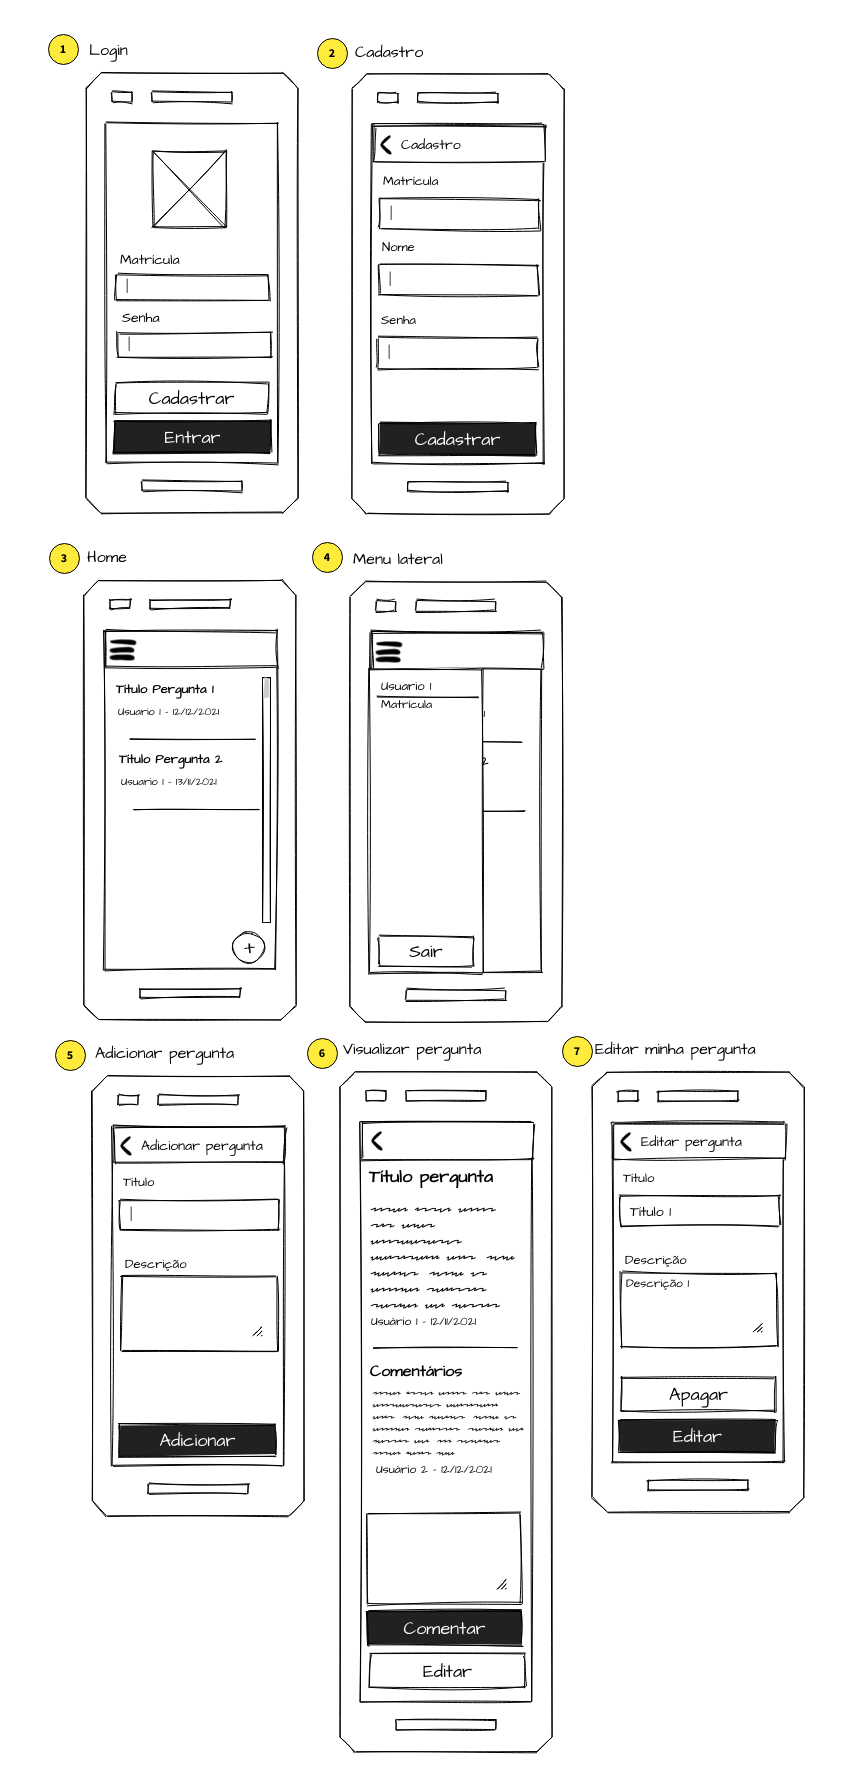
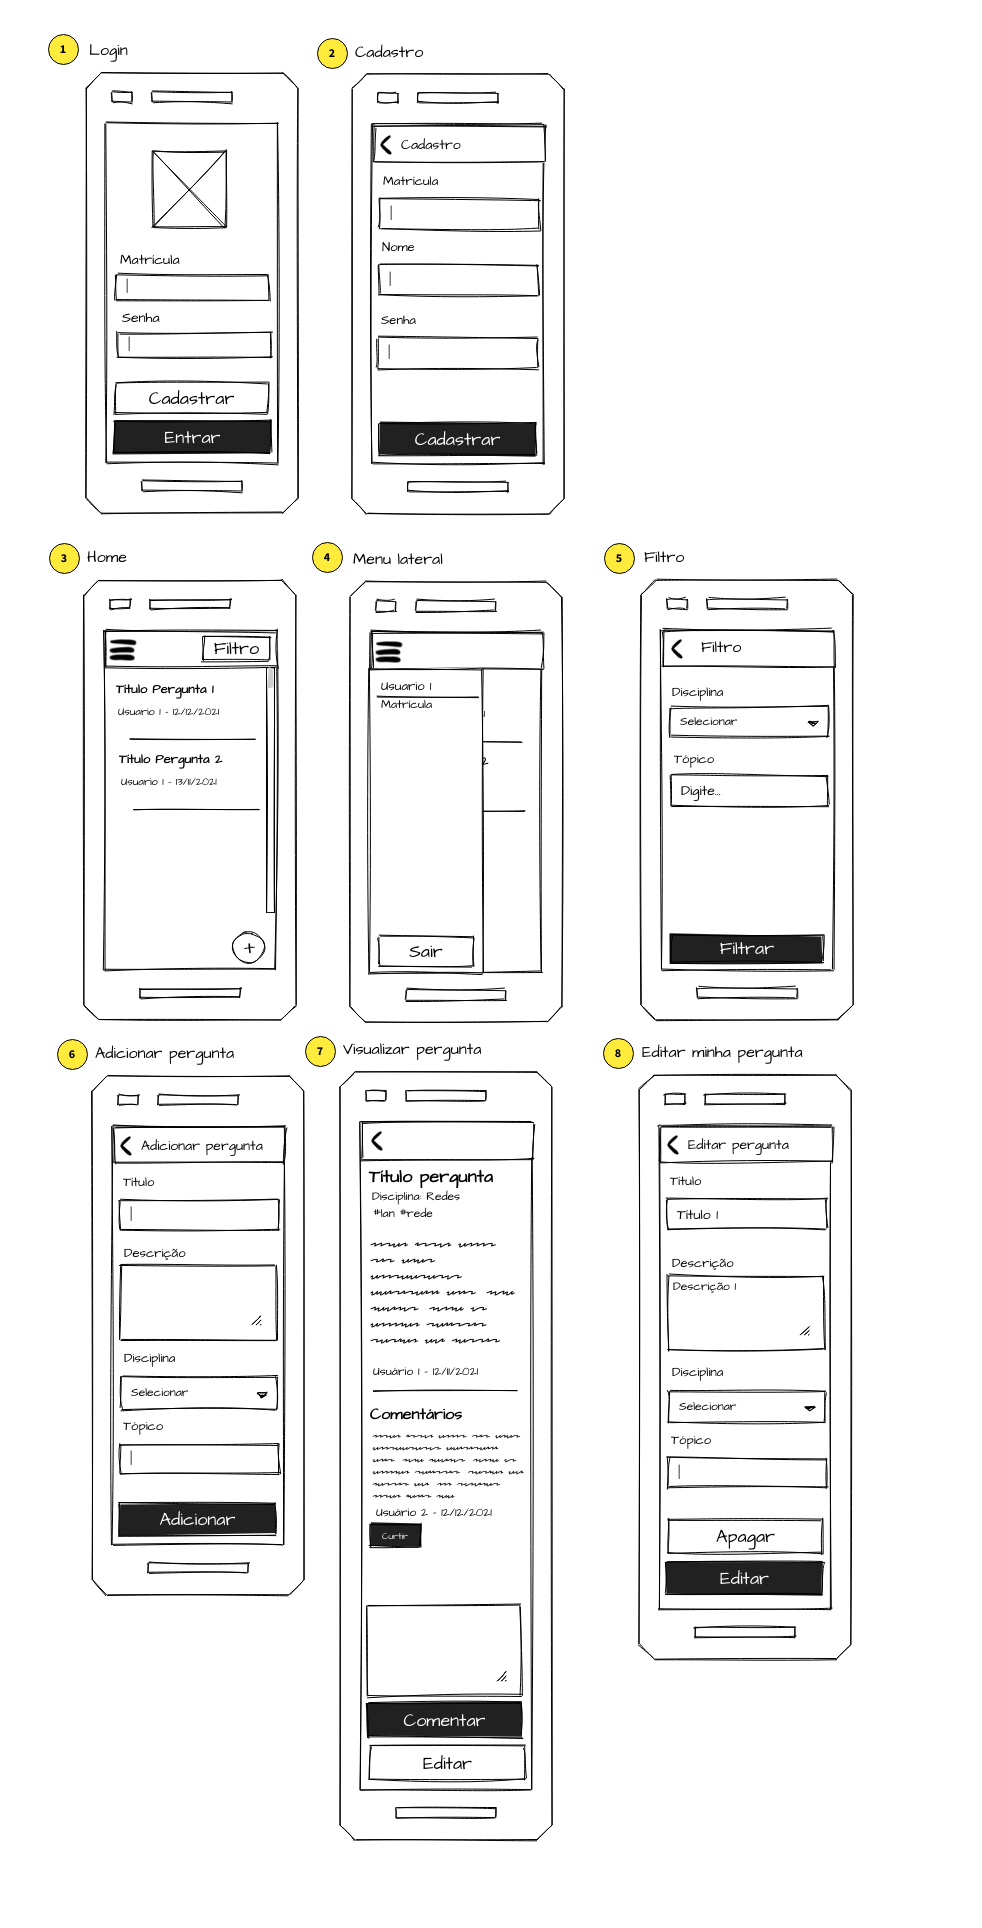
Atualização dos prototipos

Changed region(s): [[0.0311, 0.0, 0.9332, 0.9688]]

diff --git a/docs/04-Projeto de Interface.md b/docs/04-Projeto de Interface.md
@@ -23,8 +23,9 @@
 - A partir da Tela de Login (1) o usário pode efetuar o login e acessar o aplicativo (3) ou então o cadastro (2).
 - A partir da Tela de Cadastro (2) o usuário poderá voltar para a tela de login (1).
 - A partir da Tela principal (3) o usuário poderá acessar suas informações contidas no menu lateral ou sair do aplicativo (4).
-- A partir da Tela principal (3) o usuário poderá acessar a tela de adição de um nova pergunta (5).
-- A partir da Tela principal (3) o usuário poderá acessar a tela de visualização de pergunta (6).
+- A partir da Tela principal (3) o usuário poderá acessar o filtro dos posts pelo botão Filtrar e acessar o filtro (5).
+- A partir da Tela principal (3) o usuário poderá acessar a tela de adição de um nova pergunta (6).
+- A partir da Tela principal (3) o usuário poderá acessar a tela de visualização de pergunta (7).
 - A partir da Tela de visualização de pergunta (6) o usuário poderá acessar a tela de edição de pergunta (7) caso seja de sua autoria.
 
 ## WEB
@@ -42,5 +43,6 @@
 - A primeira tela do usuário é a Tela de Login (1).
 - A partir da Tela de Login (1) o usário pode efetuar o login e acessar o aplicativo (3) ou então o cadastro (2).
 - A partir da Tela de Cadastro (2) o usuário poderá voltar para a tela de login (1).
-- A partir da Tela principal (3) o usuário poderá acessar a tela de visualização de pergunta (4).
-- A partir da Tela de visualização de pergunta (4) o usuário poderá acessar a tela de edição de pergunta (5) caso seja de sua autoria.
+- A partir da Tela principal (3) o usuário poderá acessar a tela de visualização de pergunta (6).
+- A partir da Tela principal (3) o usuário poderá acessar a tela de filtro (5).
+- A partir da Tela de visualização de pergunta (6) o usuário poderá acessar a tela de edição de pergunta (7) caso seja de sua autoria.
